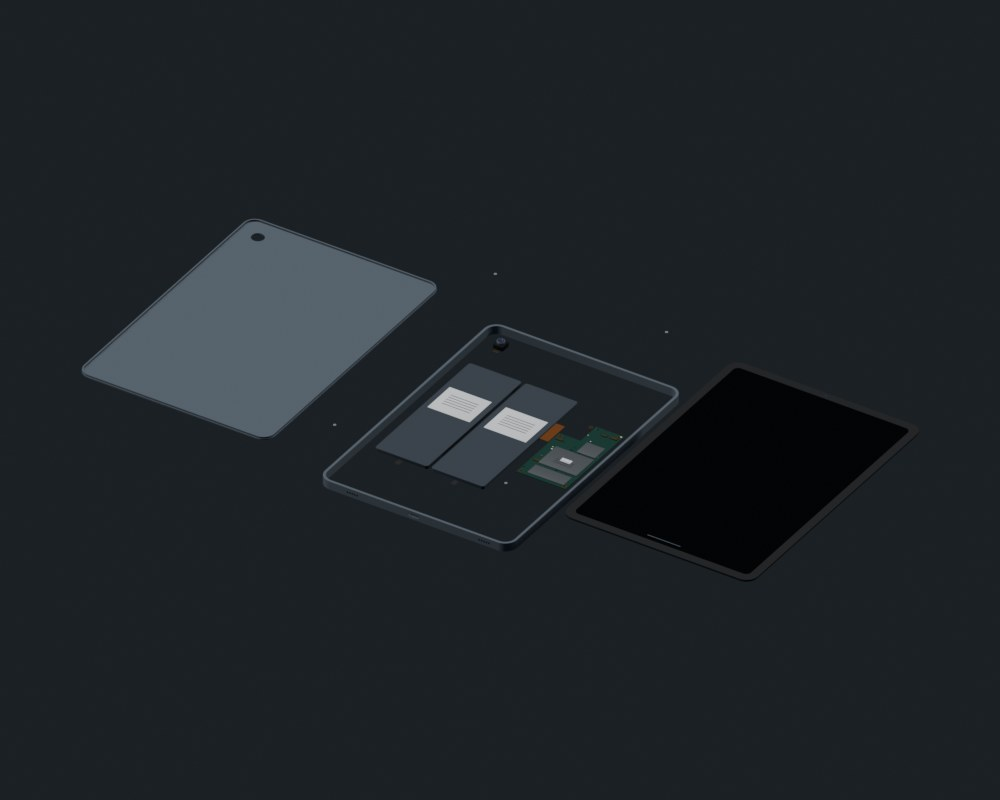
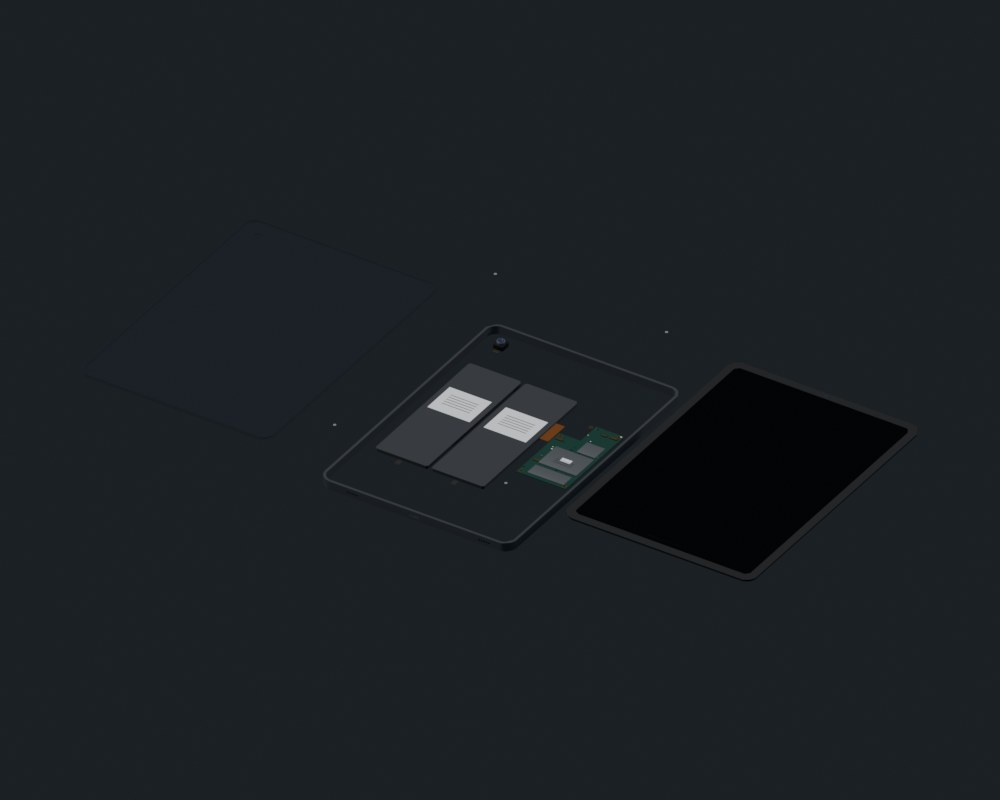
chore(3d): revisa GLB publicados y aísla formas auxiliares

diff --git a/assets/models/blender/estudio_demo.py b/assets/models/blender/estudio_demo.py
@@ -46,7 +46,7 @@ def ejecutar(familia, definiciones, montajes, reutilizadas=()):
         renderizar(args.renders, vacios, montajes)
 
 
-def renderizar(carpeta, vacios, montajes):
+def renderizar(carpeta, vacios, montajes, solo_montajes=False):
     """Mismo estudio para las piezas y los montajes, no modifica las mallas exportadas."""
     carpeta = Path(carpeta)
     carpeta.mkdir(parents=True, exist_ok=True)
@@ -80,7 +80,7 @@ def renderizar(carpeta, vacios, montajes):
         if o.type == 'FONT':
             o.hide_render = True
     modelos = {v.name: v for v in vacios}
-    piezas_sueltas = {v.name: [{'tipo': v.name, 'pos': [0, 0, 0]}] for v in vacios}
+    piezas_sueltas = {} if solo_montajes else {v.name: [{'tipo': v.name, 'pos': [0, 0, 0]}] for v in vacios}
     for nombre, piezas in {**piezas_sueltas, **montajes}.items():
         for v in vacios:
             for c in v.children:
@@ -99,7 +99,7 @@ def renderizar(carpeta, vacios, montajes):
                 copia.parent = None
                 copia.hide_render = False
                 escena.collection.objects.link(copia)
-                copia.matrix_world = CORE['Matrix'].Translation(pos) @ rot @ CORE['Matrix'].Scale(escala, 4) @ CORE['Matrix'].Translation(-centro)
+                copia.matrix_world = CORE['Matrix'].Translation(pos) @ rot @ CORE['Matrix'].Scale(escala, 4) @ CORE['Matrix'].Translation(-centro) @ obj.matrix_world
                 copias.append(copia)
         bpy.context.view_layer.update()
         pts = [o.matrix_world @ Vector(p) for o in copias for p in o.bound_box]

diff --git a/assets/models/blender/revisar_publicados.py b/assets/models/blender/revisar_publicados.py
@@ -1,0 +1,28 @@
+"""Render de los GLB optimizados con las recetas reales del visor, tras decodificar.mts.
+
+blender -b --factory-startup --python revisar_publicados.py -- \
+  --script relojes_demo.py --glb /tmp/decodificados/relojes_demo.glb --renders renders/relojes_demo
+"""
+import argparse
+from pathlib import Path
+import runpy
+import sys
+import bpy
+
+p = argparse.ArgumentParser()
+p.add_argument('--script', required=True)
+p.add_argument('--glb', required=True)
+p.add_argument('--renders', required=True)
+p.add_argument('--solo-montajes', action='store_true')
+args = p.parse_args(sys.argv[sys.argv.index('--') + 1:])
+script = Path(args.script)
+if not script.is_absolute():
+    script = Path(__file__).with_name(args.script)
+datos = runpy.run_path(str(script), run_name='revision_geometria_publicada')
+bpy.ops.wm.read_factory_settings(use_empty=True)
+bpy.ops.import_scene.gltf(filepath=str(Path(args.glb).resolve()))
+vacios = [o for o in bpy.context.scene.objects if o.type == 'EMPTY' and o.get('ajuste')]
+if len(vacios) != len(datos['D']):
+    raise ValueError('Los nodos publicados no coinciden con las formas del script')
+vacios += [fn() for fn in datos.get('REUSO', ())]
+datos['H']['renderizar'](args.renders, vacios, datos['M'], args.solo_montajes)

diff --git a/assets/models/blender/publicar_familia.py b/assets/models/blender/publicar_familia.py
@@ -26,7 +26,8 @@ with tempfile.TemporaryDirectory(prefix="sayso-familia-") as tmp:
     for archivo in indice["familias"].values():
         shutil.copy2(optimizados / archivo, destino / archivo)
     propias = set(indice["familias"])
-    anterior["tipos"] = {k:v for k,v in anterior["tipos"].items() if v["familia"] not in propias}
+    anterior["tipos"] = {k:indice["tipos"].get(k, v) for k,v in anterior["tipos"].items()
+                          if v["familia"] not in propias or k in indice["tipos"]}
     for k in ("familias", "tipos"):
         anterior[k].update(indice[k])
     (destino / "indice.json").write_text(json.dumps(anterior, ensure_ascii=False, indent=1) + "\n")

diff --git a/assets/models/blender/COTIDIANOS.md b/assets/models/blender/COTIDIANOS.md
@@ -20,6 +20,19 @@ Las hojas por equipo muestran las piezas nuevas; los IDs reutilizados se enumera
 Incluye 52 renders individuales y 13 hojas. Las piezas de cada hoja se normalizan para poder
 compararlas: esa vista no representa su tamaño relativo, un montaje ni un despiece real.
 
+## Revisar los GLB finales comprimidos
+
+Los renders de las familias nuevas se revisaron después de comprimir, usando
+`decodificar.mts` para reconstruir las recetas reales del visor. No son capturas
+del producto: la auditoría de cámara, etiquetas y coreografía en iPhone sigue aparte.
+
+```sh
+node --import tsx assets/models/blender/decodificar.mts public/models/piezas /tmp/sayso-revision
+blender -b --factory-startup --python-exit-code 1 --python assets/models/blender/revisar_publicados.py -- --script notebook_demo.py --glb /tmp/sayso-revision/notebook_demo.glb --renders assets/models/blender/renders/notebook_demo
+```
+
+Cambiar script y GLB por la familia a revisar. Sin APIs, credenciales ni costo de IA.
+
 ## Reglas de forma y materiales
 
 Cada pieza nueva tiene regla explícita en `AJUSTES` de `piezas.py`, exportada al índice y a
@@ -212,6 +225,26 @@ Nuevas:
 
 Reutilizadas: `parlante`, `bateria@celular`, `placa`, `conector@usb_c`, `boton_reset`.
 
+### Tablet completa — #233
+
+`tablet_demo.py` publica **tablet_demo.glb** (12 KB): `marco@tablet` hueco,
+`tapa_trasera@tablet`, `pantalla@tablet` y `bateria@tablet`. Placa, cámara y tornillos
+se reutilizan por nombre. Son piezas distintas, sin fusionar todo en una sola malla;
+el plano puede desplazar el frente, levantar la trasera y quitar tornillos por separado.
+La cara activa mira a +Y en el GLB (+Z de Blender), sin girar la tablet sobre su espalda.
+El modelo cerrado tiene el frente completo y opaco; el render abierto usa esas mismas piezas.
+
+Cobertura: `tablet-cobertura.json`, dos tamaños de 17,5 × 25 y 21,35 × 30,5 cm.
+La cámara inicial, el cierre y los pasos de apertura del producto los conecta el otro
+chat por #233; agregar mallas no cambia por sí solo la coreografía existente.
+
+![Tablet completa](renders/tablet_demo/tablet_cerrada_1.jpg)
+![Las mismas piezas separadas](renders/tablet_demo/tablet_abierta_1.jpg)
+
+Publicar: `python3 assets/models/blender/publicar_familia.py assets/models/blender/tablet_demo.py`.
+Renders: `blender -b --factory-startup --python assets/models/blender/tablet_demo.py -- --salida /tmp/tablet --renders assets/models/blender/renders/tablet_demo`.
+Test: `npx vitest run assets/models/blender/tablet-demo.test.ts`.
+
 ### Control remoto
 
 ![Control remoto](renders/cotidianos/hoja_control_remoto.jpg)
@@ -239,24 +272,3 @@ Nuevas:
 - [nucleo_ferrita](renders/cotidianos/nucleo_ferrita.jpg) — `redondo:xz`.
 
 Reutilizadas: `fuente`, `transformador`, `capacitor`, `conector@usb_c`, `conector_usb_a`, `cable@redondo`.
-
-
-## Tablet completa — #233
-
-`tablet_demo.py` publica **tablet_demo.glb** (12 KB): `marco@tablet` hueco,
-`tapa_trasera@tablet`, `pantalla@tablet` y `bateria@tablet`. Placa, cámara y tornillos
-se reutilizan por nombre. Son piezas distintas, sin fusionar todo en una sola malla;
-el plano puede desplazar el frente, levantar la trasera y quitar tornillos por separado.
-La cara activa mira a +Y en el GLB (+Z de Blender), sin girar la tablet sobre su espalda.
-El modelo cerrado tiene el frente completo y opaco; el render abierto usa esas mismas piezas.
-
-Cobertura: `tablet-cobertura.json`, dos tamaños de 17,5 × 25 y 21,35 × 30,5 cm.
-La cámara inicial, el cierre y los pasos de apertura del producto los conecta el otro
-chat por #233; agregar mallas no cambia por sí solo la coreografía existente.
-
-![Tablet completa](renders/tablet_demo/tablet_cerrada_1.jpg)
-![Las mismas piezas separadas](renders/tablet_demo/tablet_abierta_1.jpg)
-
-Publicar: `python3 assets/models/blender/publicar_familia.py assets/models/blender/tablet_demo.py`.
-Renders: `blender -b --factory-startup --python assets/models/blender/tablet_demo.py -- --salida /tmp/tablet --renders assets/models/blender/renders/tablet_demo`.
-Test: `npx vitest run assets/models/blender/tablet-demo.test.ts`.
